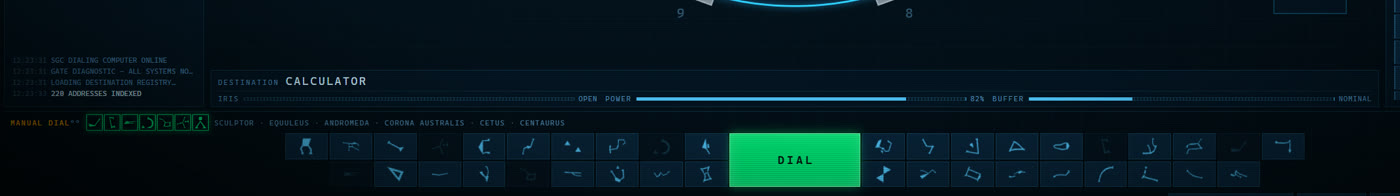
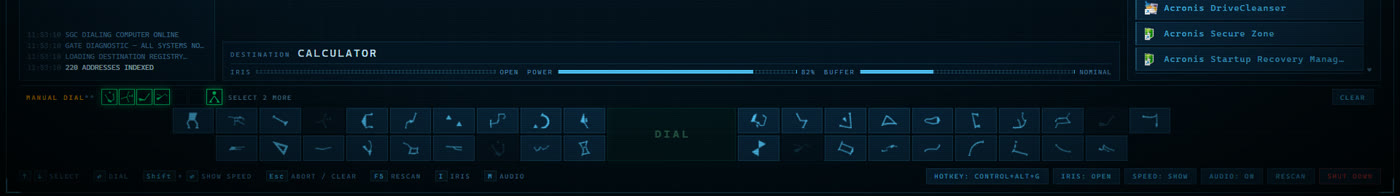
Bring the README up to 1.3.0 and reshoot the screenshots
All four screenshots were taken on 21 August for 1.1, before the chevrons
were redesigned, so every image on the page - including the one at the top
- showed hardware that no longer exists. Reshot against 1.3.0.

Adds a fifth showing the top chevron caught at the bottom of its travel,
with a paragraph on how it comes apart, since that is the newest thing in
here and a still shows it better than prose does.

Credits now name all three contributors rather than only the first. The
README explained how to install the macOS build without ever saying who
wrote it.

Also: "both builds" predated Linux, and "neither desktop build is
code-signed" was ambiguous once there were three of them.

diff --git a/README.md b/README.md
@@ -12,7 +12,7 @@ It is slower than clicking an icon. That is the point.
 
 ## Download
 
-Both builds are on the [releases page](../../releases/latest).
+All three builds are on the [releases page](../../releases/latest).
 
 **Windows:** run the installer. Windows 10 or 11, 64-bit, nothing else to
 install.
@@ -27,8 +27,8 @@ chmod +x Stargate-Command-*.AppImage
 ./Stargate-Command-*.AppImage
 ```
 
-Neither desktop build is code-signed, and the two of them complain about it
-differently.
+The Windows and macOS builds are not code-signed, and the two of them
+complain about it differently.
 
 Windows shows a blue "Windows protected your PC" box: click **More info**,
 then **Run anyway**.
@@ -76,6 +76,15 @@ drawn by hand, so the symbols on the ring are the actual constellations.
 **The chevrons light in the right order.** They are not evenly spaced: 1, 2, 3
 down the right, 4, 5, 6 back up the left, 7 at the top. Each symbol spins to
 top dead center to be grabbed, exactly as on screen.
+
+**The top chevron moves.** It is the only one on the gate that does, and it is
+built here as the three separate pieces it is on the prop. The wing across the
+top is bolted to the ring and stays put. The V below it drops inward to take
+the symbol. A lit block slides outward along a channel cut into that V, so the
+two pull apart as it engages and the chevron reads as coming open rather than
+stretching. The distances and timings came off screen footage frame by frame.
+
+![The top chevron locking a symbol](docs/screenshot-chevron.jpg)
 
 **You can dial by hand.** The row of symbols along the bottom is a DHD: 38
 keys, one per constellation, with DIAL in the middle. Press six of them and
@@ -158,7 +167,16 @@ affiliated with or endorsed by the rights holders.
 **The MIT license covers the code only.** It is not mine to place any license
 on the Stargate material in `assets/` and `public/sfx/`, and it does not.
 
-Linux support was contributed by [@jkoehler11](https://github.com/jkoehler11).
+Three people have contributed to this:
+
+- [@jkoehler11](https://github.com/jkoehler11) ported it to Linux, and set up
+  the CI that builds every release.
+- [@Shogoki](https://github.com/Shogoki) ported it to macOS, which meant
+  writing a binary plist reader by hand because that is how Xcode saves
+  Info.plist.
+- [@St0rmy95](https://github.com/St0rmy95) gave the chevrons their shape and
+  their slats, added the failed-dial sound, synced the iris to its own sound
+  effect, and put the diagnostic dot back in the middle of the gate.
 
 The sounds are optional as far as the program is concerned: delete
 `public/sfx/` and it falls back to the synthesized audio it shipped with
